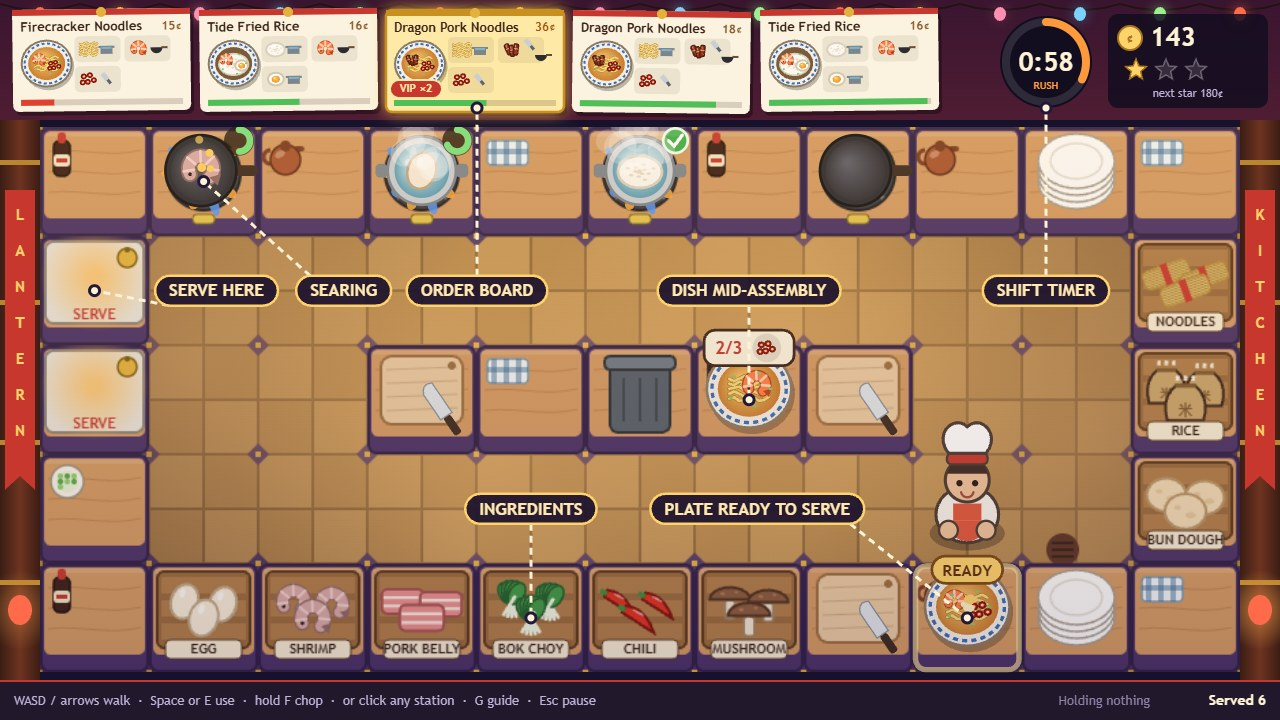
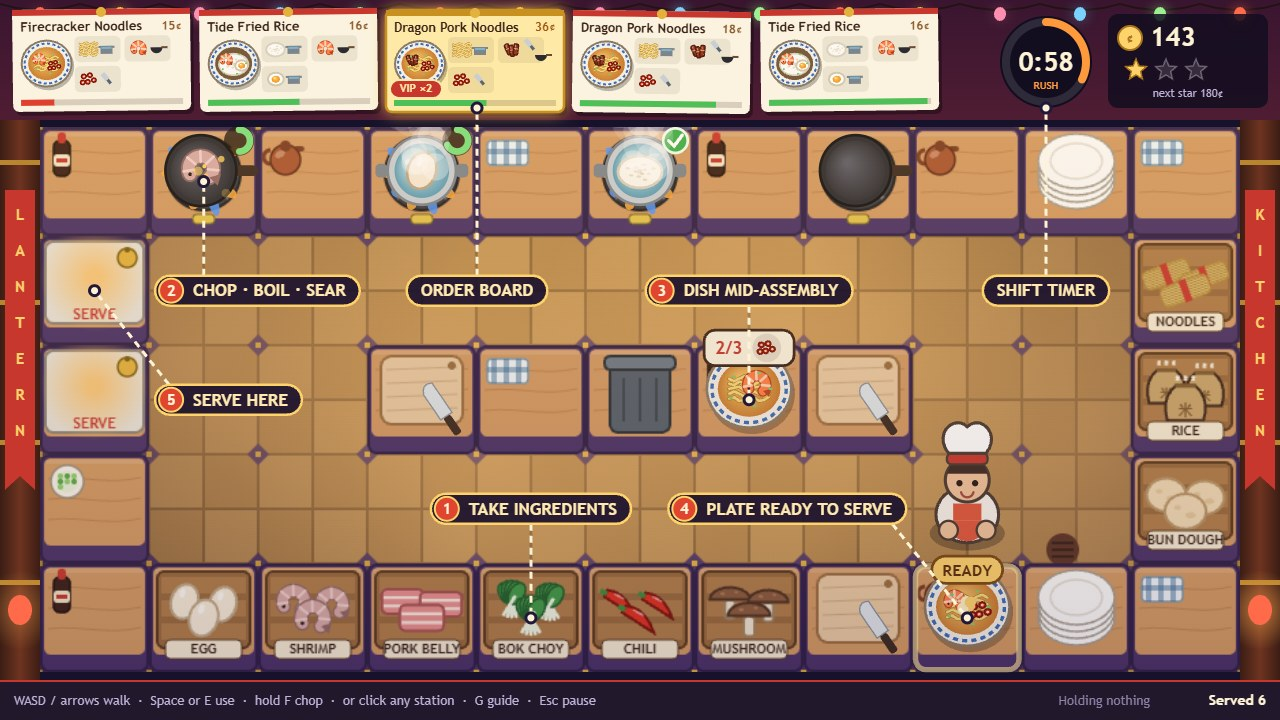
Kitchen guide numbers the dish's route: ingredients, stove, assembly, ready, pass

diff --git a/game/src/render/guide.js b/game/src/render/guide.js
@@ -21,7 +21,10 @@ function middleOf(cells) {
   return cells[Math.floor(cells.length / 2)];
 }
 
-/** What the guide names in this frame, most important first. */
+/**
+ * What the guide names in this frame: the board and the clock, then the route one dish takes,
+ * numbered in service order (crate, stove, plate, ready, pass).
+ */
 function guideTargets(night) {
   const kitchen = night.kitchen;
   const targets = [];
@@ -30,22 +33,23 @@ function guideTargets(night) {
   targets.push({ label: 'SHIFT TIMER', x: 1046, y: 108, hud: true });
   const crates = kitchen.ofType('crate').filter((cell) => cell.row === kitchen.rows - 1);
   const crate = crates.length > 0 ? middleOf(crates) : middleOf(kitchen.ofType('crate'));
-  if (crate) targets.push({ label: 'INGREDIENTS', ...cellPoint(crate) });
+  if (crate) targets.push({ step: 1, label: 'TAKE INGREDIENTS', ...cellPoint(crate) });
+  const cooking = kitchen.stations.find((cell) => (cell.type === 'pot' || cell.type === 'wok') && cell.item !== null);
+  if (cooking) targets.push({ step: 2, label: 'CHOP · BOIL · SEAR', ...cellPoint(cooking) });
   const building = kitchen.stations.find((cell) => assemblyOf(night, cell.item) !== null);
-  if (building) targets.push({ label: 'DISH MID-ASSEMBLY', ...cellPoint(building) });
+  if (building) targets.push({ step: 3, label: 'DISH MID-ASSEMBLY', ...cellPoint(building) });
   const ready = kitchen.stations.find((cell) => isWanted(night, cell.item));
-  if (ready) targets.push({ label: 'PLATE READY TO SERVE', ...cellPoint(ready) });
+  if (ready) targets.push({ step: 4, label: 'PLATE READY TO SERVE', ...cellPoint(ready) });
   else if (isWanted(night, night.chef.held)) {
     targets.push({
+      step: 4,
       label: 'PLATE READY TO SERVE',
       x: KITCHEN_VIEW.x + night.chef.x * KITCHEN_VIEW.scale,
       y: KITCHEN_VIEW.y + night.chef.y * KITCHEN_VIEW.scale,
     });
   }
   const pass = kitchen.ofType('pass');
-  if (pass.length > 0) targets.push({ label: 'SERVE HERE', ...cellPoint(pass[0]) });
-  const cooking = kitchen.stations.find((cell) => (cell.type === 'pot' || cell.type === 'wok') && cell.item !== null);
-  if (cooking) targets.push({ label: cooking.type === 'pot' ? 'BOILING' : 'SEARING', ...cellPoint(cooking) });
+  if (pass.length > 0) targets.push({ step: 5, label: 'SERVE HERE', ...cellPoint(pass[0]) });
   return targets;
 }
 
@@ -59,7 +63,7 @@ function overlaps(a, b) {
  */
 function placeCallout(ctx, target, kitchen, placed) {
   ctx.font = FONT;
-  const w = ctx.measureText(target.label).width + 28;
+  const w = ctx.measureText(target.label).width + (target.step ? 52 : 28);
   const scale = KITCHEN_VIEW.scale;
   const rowY = (row) => KITCHEN_VIEW.y + (row * TILE + TILE / 2) * scale - PILL_HEIGHT / 2;
   const rows = target.hud ? [1] : [1, 3, 2];
@@ -67,8 +71,8 @@ function placeCallout(ctx, target, kitchen, placed) {
   const right = KITCHEN_VIEW.x + (kitchen.cols - 1) * TILE * scale - 6;
   let best = null;
   for (const row of rows) {
-    for (const shift of [0, -1, 1, -2, 2, -3, 3, -4, 4]) {
-      const x = Math.max(left, Math.min(right - w, target.x - w / 2 + shift * 70));
+    for (const shift of [0, -1, 1, -2, 2, -3, 3, -4, 4, -5, 5, -6, 6, -7, 7]) {
+      const x = Math.max(left, Math.min(right - w, target.x - w / 2 + shift * 60));
       const box = { x, y: rowY(row), w, h: PILL_HEIGHT };
       if (placed.some((other) => overlaps(box, other))) continue;
       const cost = Math.hypot(box.x + w / 2 - target.x, box.y + PILL_HEIGHT / 2 - target.y);
@@ -98,8 +102,7 @@ function drawLeader(ctx, box, target) {
   ctx.stroke();
 }
 
-function drawPill(ctx, box, label) {
-  const cx = box.x + box.w / 2;
+function drawPill(ctx, box, target) {
   const cy = box.y + box.h / 2;
   ctx.fillStyle = 'rgba(28,18,46,0.92)';
   ctx.strokeStyle = '#ffd36b';
@@ -108,11 +111,28 @@ function drawPill(ctx, box, label) {
   ctx.roundRect(box.x, box.y, box.w, box.h, 15);
   ctx.fill();
   ctx.stroke();
+  let textX = box.x + box.w / 2;
+  if (target.step) {
+    // A numbered step of the dish's route, in the lantern red of the stall.
+    ctx.fillStyle = '#e0452f';
+    ctx.strokeStyle = '#ffd36b';
+    ctx.lineWidth = 2;
+    ctx.beginPath();
+    ctx.arc(box.x + 16, cy, 12, 0, Math.PI * 2);
+    ctx.fill();
+    ctx.stroke();
+    ctx.fillStyle = '#fff3d6';
+    ctx.font = 'bold 15px "Trebuchet MS", sans-serif';
+    ctx.textAlign = 'center';
+    ctx.textBaseline = 'middle';
+    ctx.fillText(String(target.step), box.x + 16, cy + 1);
+    textX += 12;
+  }
   ctx.fillStyle = '#ffe9b0';
   ctx.font = FONT;
   ctx.textAlign = 'center';
   ctx.textBaseline = 'middle';
-  ctx.fillText(label, cx, cy + 1);
+  ctx.fillText(target.label, textX, cy + 1);
 }
 
 /** Draw the guide's callouts over a night in play. */
@@ -137,6 +157,6 @@ export function drawKitchenGuide(ctx, night) {
   // Every leader line first, then the pills on top, so no line crosses a label.
   ctx.save();
   for (const { box, target } of callouts) drawLeader(ctx, box, target);
-  for (const { box, target } of callouts) drawPill(ctx, box, target.label);
+  for (const { box, target } of callouts) drawPill(ctx, box, target);
   ctx.restore();
 }
